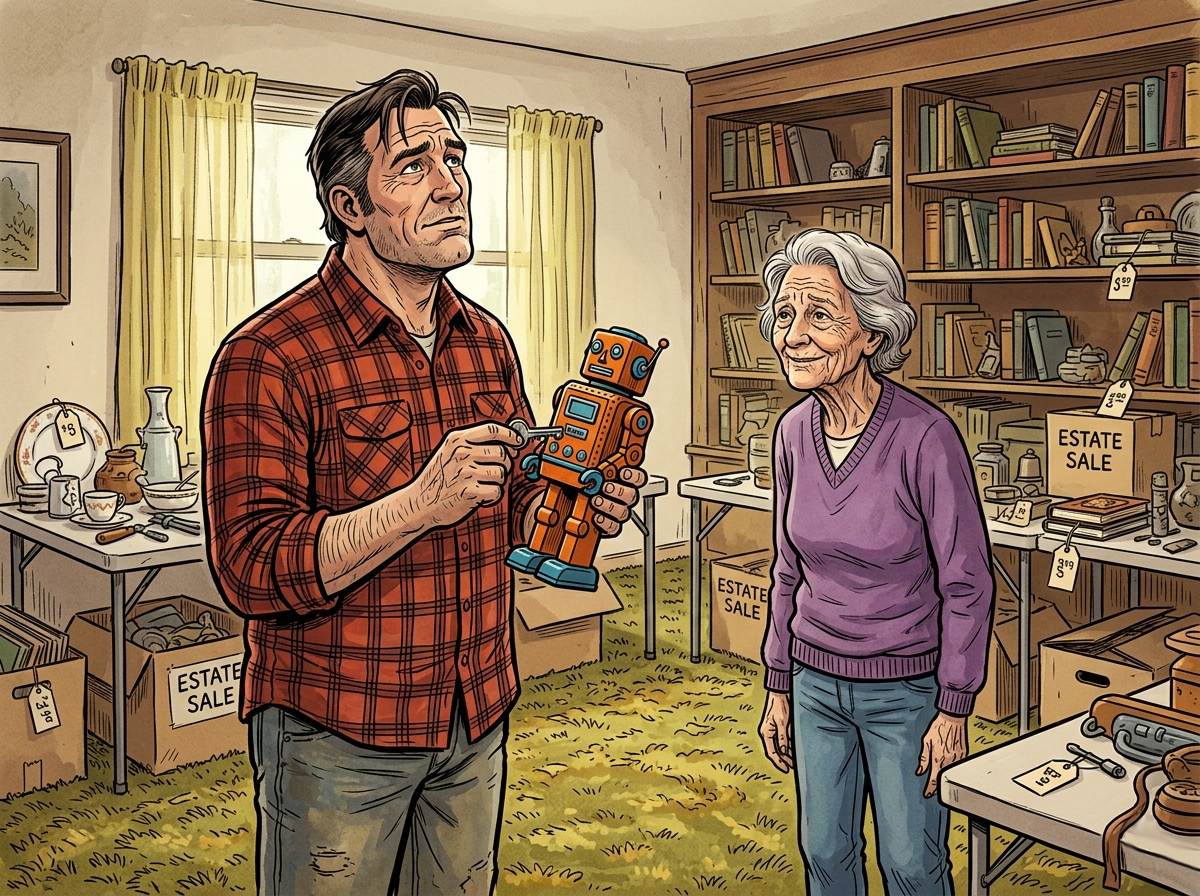
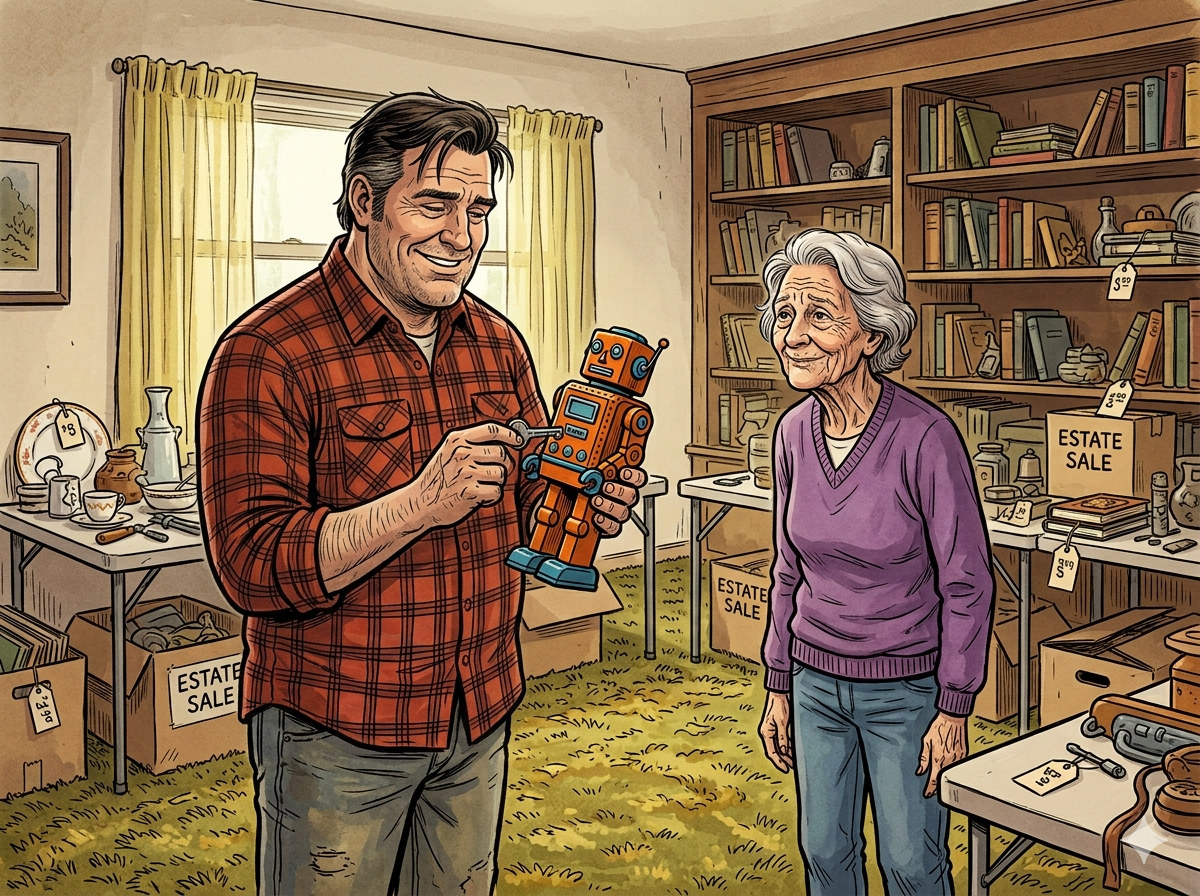
Add files via upload

Changed region(s): [[0.1542, 0.0625, 0.4625, 0.9375], [0.925, 0.9062, 0.9867, 0.9688], [0.6475, 0.375, 0.6783, 0.4375]]

diff --git a/games/index.html b/games/index.html
@@ -3,7 +3,10 @@
 <head>
   <meta charset="UTF-8" />
   <meta name="viewport" content="width=device-width, initial-scale=1.0" />
-  <title>The Vault — The Orange Robot</title>
+  <title>The Vault — Games & Hidden Scenes | The Orange Robot</title>
+  <meta name="description" content="The Vault: interactive games and hidden scenes from The Orange Robot, V.J. Alden's modern parable retelling the story of Joseph in the age of Bitcoin and AI." />
+  <link rel="canonical" href="https://theorangerobot.com/games/index.html" />
+  <meta name="robots" content="index, follow" />
   <link rel="preconnect" href="https://fonts.googleapis.com" />
   <link href="https://fonts.googleapis.com/css2?family=EB+Garamond:ital,wght@0,400;0,600;1,400&family=Cinzel:wght@400;600&family=IBM+Plex+Mono:wght@400;600&display=swap" rel="stylesheet" />
   <style>

diff --git a/games/bonus-estate-sale.html b/games/bonus-estate-sale.html
@@ -4,6 +4,7 @@
   <meta charset="UTF-8">
   <meta name="viewport" content="width=device-width, initial-scale=1.0">
   <title>The Estate Sale — Hidden Scene</title>
+  <meta name="robots" content="noindex, nofollow" />
   <link rel="preconnect" href="https://fonts.googleapis.com" crossorigin>
   <link href="https://fonts.googleapis.com/css2?family=EB+Garamond:ital,wght@0,400;0,500;1,400&display=swap" rel="stylesheet">
   <style>
@@ -93,7 +94,7 @@
 <body>
   <div class="badge">⚡ Bonus Scene — Unlocked at 200 Sats</div>
   <div class="page">
-    <img src="estatesale.png" alt="The Estate Sale" style="width:100%;display:block;margin-bottom:2rem;box-shadow:0 2px 12px rgba(0,0,0,0.18);">
+    <img src="estatesale.PNG" alt="The Estate Sale" style="width:100%;display:block;margin-bottom:2rem;box-shadow:0 2px 12px rgba(0,0,0,0.18);">
     <p class="scene-label">Hidden Scene · The Orange Robot</p>
     <hr>
     <h1>The Estate Sale</h1>

diff --git a/games/coldstorage.html b/games/coldstorage.html
@@ -4,6 +4,9 @@
   <meta charset="UTF-8"/>
   <meta name="viewport" content="width=device-width, initial-scale=1.0"/>
   <title>Cold Storage — The Orange Robot</title>
+  <meta name="description" content="A Vault scene from The Orange Robot: twenty years on, Joey opens the panel he never touched." />
+  <meta name="robots" content="noindex, follow" />
+  <link rel="canonical" href="https://theorangerobot.com/games/coldstorage.html" />
   <link rel="preconnect" href="https://fonts.googleapis.com"/>
   <link href="https://fonts.googleapis.com/css2?family=Fraunces:ital,opsz,wght@0,9..144,400;0,9..144,600;1,9..144,400&family=IBM+Plex+Mono:wght@400;600&family=Space+Grotesk:wght@400;500;700&display=swap" rel="stylesheet"/>
   <style>

diff --git a/games/dreamer.html b/games/dreamer.html
@@ -4,6 +4,9 @@
   <meta charset="UTF-8"/>
   <meta name="viewport" content="width=device-width, initial-scale=1.0"/>
   <title>The Dreamer's Path — The Orange Robot</title>
+  <meta name="description" content="A Vault scene from The Orange Robot, tracing Joey's path from the garage to the kitchen table." />
+  <meta name="robots" content="noindex, follow" />
+  <link rel="canonical" href="https://theorangerobot.com/games/dreamer.html" />
   <link rel="preconnect" href="https://fonts.googleapis.com"/>
   <link href="https://fonts.googleapis.com/css2?family=Fraunces:ital,opsz,wght@0,9..144,400;0,9..144,600;1,9..144,400&family=IBM+Plex+Mono:wght@400;600&family=Space+Grotesk:wght@400;500;700&display=swap" rel="stylesheet"/>
   <style>

diff --git a/games/gift.html b/games/gift.html
@@ -4,6 +4,9 @@
   <meta charset="UTF-8"/>
   <meta name="viewport" content="width=device-width, initial-scale=1.0"/>
   <title>The Gift — The Orange Robot</title>
+  <meta name="description" content="A Vault scene from The Orange Robot: the Christmas morning the orange robot was first unwrapped." />
+  <meta name="robots" content="noindex, follow" />
+  <link rel="canonical" href="https://theorangerobot.com/games/gift.html" />
   <link rel="preconnect" href="https://fonts.googleapis.com"/>
   <link href="https://fonts.googleapis.com/css2?family=Fraunces:ital,opsz,wght@0,9..144,400;0,9..144,600;1,9..144,400&family=IBM+Plex+Mono:wght@400;600&family=Space+Grotesk:wght@400;500;700&display=swap" rel="stylesheet"/>
   <style>

diff --git a/games/mining.html b/games/mining.html
@@ -4,6 +4,9 @@
   <meta charset="UTF-8"/>
   <meta name="viewport" content="width=device-width, initial-scale=1.0"/>
   <title>The Mining Sim — The Orange Robot</title>
+  <meta name="description" content="A Vault scene from The Orange Robot: an interactive simulation of the early Bitcoin mining years." />
+  <meta name="robots" content="noindex, follow" />
+  <link rel="canonical" href="https://theorangerobot.com/games/mining.html" />
   <link rel="preconnect" href="https://fonts.googleapis.com"/>
   <link href="https://fonts.googleapis.com/css2?family=Cinzel:wght@400;600&family=EB+Garamond:ital,wght@0,400;1,400&family=IBM+Plex+Mono:wght@400;600&display=swap" rel="stylesheet"/>
   <style>

diff --git a/games/valuechart.html b/games/valuechart.html
@@ -4,6 +4,9 @@
   <meta charset="UTF-8"/>
   <meta name="viewport" content="width=device-width, initial-scale=1.0"/>
   <title>The Value Chart — The Orange Robot</title>
+  <meta name="description" content="A Vault scene from The Orange Robot, charting how the hidden wallet's value grew over the years." />
+  <meta name="robots" content="noindex, follow" />
+  <link rel="canonical" href="https://theorangerobot.com/games/valuechart.html" />
   <link rel="preconnect" href="https://fonts.googleapis.com"/>
   <link href="https://fonts.googleapis.com/css2?family=Fraunces:ital,opsz,wght@0,9..144,400;0,9..144,600;1,9..144,400&family=IBM+Plex+Mono:wght@400;600&family=Space+Grotesk:wght@400;500;700&display=swap" rel="stylesheet"/>
   <style>

diff --git a/games/joseph.html b/games/joseph.html
@@ -4,6 +4,8 @@
   <meta charset="UTF-8"/>
   <meta name="viewport" content="width=device-width, initial-scale=1.0"/>
   <title>The Joseph Parallel — The Orange Robot</title>
+  <meta name="robots" content="noindex, follow" />
+  <link rel="canonical" href="https://theorangerobot.com/joseph-parallels.html" />
   <link rel="preconnect" href="https://fonts.googleapis.com"/>
   <link href="https://fonts.googleapis.com/css2?family=Cinzel:wght@400;600&family=EB+Garamond:ital,wght@0,400;0,600;1,400&family=IBM+Plex+Mono:wght@400&display=swap" rel="stylesheet"/>
   <style>

diff --git a/games/bonus-early-bird.html b/games/bonus-early-bird.html
@@ -4,6 +4,7 @@
   <meta charset="UTF-8">
   <meta name="viewport" content="width=device-width, initial-scale=1.0">
   <title>Early Bird — Hidden Scene</title>
+  <meta name="robots" content="noindex, nofollow" />
   <link rel="preconnect" href="https://fonts.googleapis.com" crossorigin>
   <link href="https://fonts.googleapis.com/css2?family=EB+Garamond:ital,wght@0,400;0,500;1,400&display=swap" rel="stylesheet">
   <style>

diff --git a/games/bonus-vignettes.html b/games/bonus-vignettes.html
@@ -4,6 +4,7 @@
   <meta charset="UTF-8">
   <meta name="viewport" content="width=device-width, initial-scale=1.0">
   <title>Flash Vignettes — Hidden Gallery</title>
+  <meta name="robots" content="noindex, nofollow" />
   <link rel="preconnect" href="https://fonts.googleapis.com" crossorigin>
   <link href="https://fonts.googleapis.com/css2?family=EB+Garamond:ital,wght@0,400;0,500;1,400&display=swap" rel="stylesheet">
   <style>

diff --git a/games/bonus-wedding.html b/games/bonus-wedding.html
@@ -4,6 +4,7 @@
   <meta charset="UTF-8">
   <meta name="viewport" content="width=device-width, initial-scale=1.0">
   <title>The Celebration — Hidden Scene</title>
+  <meta name="robots" content="noindex, nofollow" />
   <link rel="preconnect" href="https://fonts.googleapis.com" crossorigin>
   <link href="https://fonts.googleapis.com/css2?family=EB+Garamond:ital,wght@0,400;0,500;1,400&display=swap" rel="stylesheet">
   <style>

diff --git a/games/easteregg.html b/games/easteregg.html
@@ -4,6 +4,7 @@
   <meta charset="UTF-8" />
   <meta name="viewport" content="width=device-width, initial-scale=1.0" />
   <title>Easter Egg Hunt — The Orange Robot</title>
+  <meta name="robots" content="noindex, nofollow" />
   <link rel="preconnect" href="https://fonts.googleapis.com" />
   <link href="https://fonts.googleapis.com/css2?family=EB+Garamond:ital,wght@0,400;0,600;1,400&family=Cinzel:wght@400;600&family=Inter:wght@300;400;500&display=swap" rel="stylesheet" />
   <style>